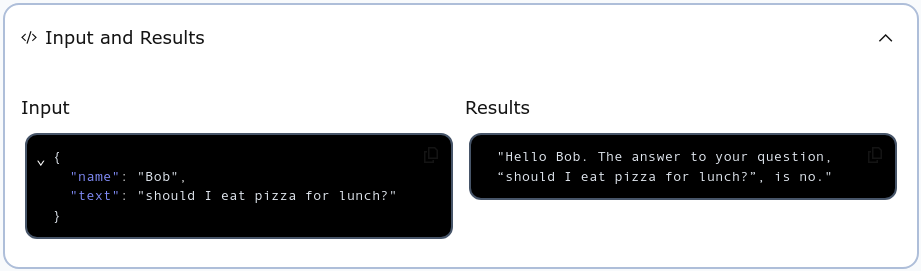
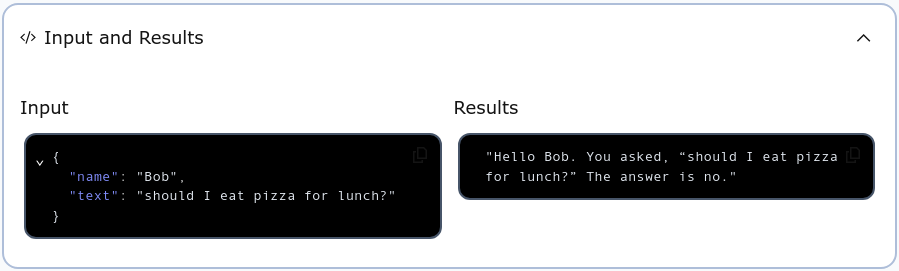
More revisions, code examples use Scala 3.5.1, ran spellchecker

diff --git a/docs/src/main/mdoc/tutorial/activities.md b/docs/src/main/mdoc/tutorial/activities.md
@@ -1,14 +1,14 @@
 # ZIO-Temporal Activities
 
-In the `HelloWorld` example we built earlier, the Workflow that returns a greeting is purely functional, because it is deterministic and is free from side-effects.  The output is completely determined by the input: if the input is `"Alice"` then the output will be `"Hello Alice!"` every time, and executing it has no effect on the world outside of the Temporal system.
+In the `HelloWorld` example we built earlier, the Workflow that returns a greeting is purely functional because it is deterministic and is free from side-effects.  The output is completely determined by the input: if the input is `"Alice"` then the output will be `"Hello Alice!"` every time, and executing it has no effect on the world outside of the Temporal system.
 
-But most Workflows are non-deterministic.  If you are building a microservice that must communicate with other services and then behave depending on that communication, then a Workflow that includes such communication and behavior will be non-deterministic.  Such a Workflow is functional in the sense that it has input and output values, but it also has the side-effect of communicating with the outside world, thus it is _impure_.  That communication is not only determining the output value of the Workflow, but it’s also affecting the outside-world in ways that may be unknowable simply by looking at the Workflow code.
+But most Workflows are non-deterministic.  If you are building a microservice that must communicate with other services and then behave depending on that communication, then a Workflow that includes such communication and behavior will be non-deterministic.  Such a Workflow is functional in the sense that it has input and output values, but it also has the side-effect of communicating with the outside world, thus it is _impure_.  That communication is not only determining the output value of the Workflow, but it is also affecting the outside-world in ways that may be unknowable simply by looking at the Workflow code.
 
-Because Tasks that have side-effects are different from purely determistic Workflow Tasks, ZIO-Temporal provides a different mechanism for accomplishing them: [Activities](https://docs.temporal.io/activities).  Activity Tasks are declared, implemented, and used in a manner somewhat similar to Workflow Tasks, but we keep them separate and use them a bit differently.  We will see this now in a small example.
+Because Tasks that have side-effects are different from purely deterministic Workflow Tasks, ZIO-Temporal provides a different mechanism for accomplishing them: [Activities](https://docs.temporal.io/activities).  Activity Tasks are declared, implemented, and used in a manner somewhat similar to Workflow Tasks, but we keep them separate and use them a bit differently.  We will see this now in a small example.
 
 ## When to Use An Activity
 
-An application that can communicate with other services can provide more features to its users by accessing the APIs of those other services to add value to the program.  As a very simple project, we will now create a service to provide life guidance to users by answering their yes-or-no questions.
+An application that can communicate with other services can provide more features to its users by accessing the APIs of those other services to add value to the program.  As a very simple project, we will now create an application to provide life guidance to users by answering their yes-or-no questions.
 
 We could do this with a random number generator that serves as a digital coin flip, but we want to provide high-quality answers.  We will therefore use the API of a service that provides answers in the form of a "yes" or a "no", called [YesNo.wtf](https://yesno.wtf) (online as of September 2024).  You can view responses in your web browser, but it also has an API for programmatic access.
 
@@ -19,7 +19,7 @@ $ curl https://yesno.wtf/api
 {"answer":"yes","forced":false,"image":"https://yesno.wtf/assets/yes/13-c3082a998e7758be8e582276f35d1336.gif"}
 ```
 
-More prettily formatted, the value returned here was:
+More prettily formatted, the value returned was:
 
 ```json
 {
@@ -29,7 +29,7 @@ More prettily formatted, the value returned here was:
 }
 ```
 
-That is the output we saw from just one run.  If you run it yourself then you will probably get a different result, and run again another result still because it is non-deterministic.  The result is a JSON object that always has the same form but an unpredictable value.  It has three properties, but the only one we need is the first, named `"answer"`, whose value always either `"yes"` or `"no"`.
+That is the output we saw when we ran it.  If you run it yourself then you will probably get a different result, and run again another result still because it is non-deterministic.  The result is a JSON object that always has the same form but an unpredictable value.  It has three properties but we only need the first, named `"answer"`, whose value is always either `"yes"` or `"no"`.
 
 We can create a Temporal Activity to do programmatically the same thing as this `curl` command.  Further, we can use the ZIO-JSON facility to extract the `"answer"` value out of the JSON contained in the response body.
 
@@ -44,7 +44,7 @@ scala> scala.io.Source.fromURL("https://yesno.wtf/api").mkString
 val res0: String = {"answer":"no","forced":false,"image":"https://yesno.wtf/assets/no/23-5fe6c1ca6c78e7bf9a7cf43e406fb8db.gif"}
 ```
 
-This returned a `String` that looks like the ouput from the `curl` command above.  To convert this `String` into a more useful Scala type, we can define such a type, and then generate a decoder for it using ZIO-JSON.  The type definition corresponds to the structure of the JSON object returned from an API request:
+This returned a `String` that looks like the output from the `curl` command above.  To convert this `String` into a more useful Scala type, we can define such a type, and then generate a decoder for it using ZIO-JSON.  The type definition corresponds to the structure of the JSON object returned from an API request:
 
 ```scala title="Scala REPL:"
 scala> case class YesOrNo(answer: String, forced: Boolean, image: String)
@@ -65,14 +65,14 @@ lazy val given_JsonDecoder_YesOrNo: zio.json.JsonDecoder[YesOrNo]
 
 The `given` keyword here is defining a value, but rather than binding the value to a variable name that we provide, Scala puts the value into the current context so that it is accessible implicitly without being named.  ZIO-JSON provides the method [`fromJson[]`](https://javadoc.io/static/dev.zio/zio-json_3/0.7.3/zio/json/DecoderOps.html#fromJson-f74), which will look in the context to find a decoder for the type of its parameter when invoked.  If it finds that decoder and can decode the `String` to which it is applied, then it will return the decoded instance of its type parameter.  If it fails then it will return a `String` containing an error message.  Thus, `fromJson[YesOrNo]` will return either a `String` (indicating an error) or a `YesOrNo` (upon success).
 
-`fromJson[]` is a method  of the [`DecoderOps`](https://javadoc.io/doc/dev.zio/zio-json_3/latest/zio/json/DecoderOps.html#fromJson-f74) class, and the Scala compiler will implicitly convert a `String` value to a `DecoderOps` in a context where the decoder is available.  Therefore, where the context contains the decoder, `fromJson[]` can be invoked on a `String` value as if it were a method in the `String` class.  For example, we can invoke `fromJson[]` on the string that the `curl` command displayed earlier:
+`fromJson[]` is a method  of the [`DecoderOps`](https://javadoc.io/doc/dev.zio/zio-json_3/latest/zio/json/DecoderOps.html#fromJson-f74) class, and the Scala compiler will implicitly convert a `String` value to a `DecoderOps` in a context where the requested decoder is available.  Therefore, where the context contains the decoder, `fromJson[]` can be invoked on a `String` value as if it were a method in the `String` class.  For example, we can invoke `fromJson[]` on the string that the `curl` command displayed earlier:
 
 ```scala title="Scala REPL:"
 scala> """{"answer":"yes","forced":false,"image":"https://yesno.wtf/assets/yes/13-c3082a998e7758be8e582276f35d1336.gif"}""".fromJson[YesOrNo]
 val res1: Either[String, YesOrNo] = Right(YesOrNo(yes,false,https://yesno.wtf/assets/yes/13-c3082a998e7758be8e582276f35d1336.gif))
 ```
 
-See that the type returned by `fromJson[YesOrNo]` is `Either[String, YesOrNo]`, which indicates that whatever the value is, it is either a `String` or a `YesOrNo`, but nothing else.  Scala is an object oriented language, and `Either[A, B]` is the supertype of `Left[A, B]` and `Right[A, B]` and of nothing else.  If it is a `Left[A, B]` then it contains a value of type `A`.  If it is a `Right[A, B]` then it contains a `B`.
+See that the type returned by `fromJson[YesOrNo]` is [`Either[String, YesOrNo]`](https://www.scala-lang.org/api/current/scala/util/Either.html), which indicates that whatever the value is, it is either a `String` or a `YesOrNo`, but nothing else.  Scala is an object oriented language, and `Either[A, B]` is the supertype of `Left[A, B]` and `Right[A, B]` and of nothing else.  If it is a `Left[A, B]` then it contains a value of type `A`.  If it is a `Right[A, B]` then it contains a `B`.
 
 This expression shown here returned a value of type `Either[String, YesOrNo]`, so the value will be either a `Left[String, YesOrNo]` containing an error-message string, or a `Right[String, YesOrNo]` containing the `YesOrNo` that was decoded as JSON.  This application of `fromJson[]` was to a `String` literal value, but we can also apply it to the `String` value returned from an API request:
 
@@ -81,7 +81,7 @@ scala> scala.io.Source.fromURL("https://yesno.wtf/api").mkString.fromJson[YesOrN
 val res2: Either[String, YesOrNo] = Right(YesOrNo(no,false,https://yesno.wtf/assets/no/14-cb78bf7104f848794808d61b9cd83eba.gif))
 ```
 
-We want to act according to whether the decoding is successful or not, defining a sensible action in case of failure.  A Scala [`match`](https://docs.scala-lang.org/scala3/book/control-structures.html#match-expressions) expression can destructure a `Left` or `Right`, and extract the contents to be returned:
+We want to act according to whether the decoding is successful or not, defining a sensible action in case of failure.  A Scala [`match`](https://docs.scala-lang.org/scala3/book/control-structures.html#match-expressions) expression can destructure a `Left` or a `Right`, and extract the contents to be returned:
 
 ```scala
 scala.io.Source.fromURL("https://yesno.wtf/api").mkString.fromJson[YesOrNo] match
@@ -89,15 +89,15 @@ scala.io.Source.fromURL("https://yesno.wtf/api").mkString.fromJson[YesOrNo] matc
       case Right(YesOrNo(answer, _, _)) => answer
 ```
 
-The expression to the left of the `match` keyword is evaluated, and that value is compared to the following [patterns](https://docs.scala-lang.org/tour/pattern-matching.html) until a match is found.  When one pattern matches, the code to the right of the `=>` is evaluated and the result returned.  If you paste this expression into the REPL (after deriving the JSON decoder), then you should get a `String` value of `"yes"` or `"no"`, unwrapped from the `Either` returned by the decoder.
+The expression to the left of the `match` keyword is evaluated, and that value is compared to the following [patterns](https://docs.scala-lang.org/tour/pattern-matching.html) until a match is found.  When one pattern matches, the code to the right of the `=>` is evaluated and the result returned.  If you paste this expression into the REPL (after deriving the JSON decoder), then you should get a `String` value of `"yes"` or `"no"`, unwrapped from the `Either` that was returned by the decoder.
 
-This example is making a network connection to the `yesno.wtf` public API, requesting an answer as a JSON-formatted string, attempting to decode that string into an instance of our custom `YesOrNo` type, matching on the value returned by `fromJson[]`, and then, if decoding was successful, returning the `answer` value of that instance.
+This example is making a network connection to the `yesno.wtf` public API, requesting an answer as a JSON-formatted string, attempting to decode that string into an instance of our custom `YesOrNo` type, matching on the value returned by `fromJson[]`, and then, if decoding was successful, returning the `answer` value member of that instance.
 
 That was the hard part.  Now we can turn this expression into a ZIO-Temporal application by dropping it into our existing program.  Because this code has the non-deterministic side-effect of communicating with the outside world, it must be defined as an Activity, which requires a trait and an implementing class.
 
 ## Declare an Activity
 
-We already learned how to define a Workflow, and defining an Activity is similar.  One difference is that while a Workflow trait declares only a single Workflow method, an Activity trait can declare as many methods as it needs.  These methods can only be executed as part of Workflows.  For example, we can define a Workflow named `AnswerQuestion` whose Workflow method will use an Activity named `GetAnswer`.  First we declare the traits and methods:
+We already learned how to define a Workflow, and defining an Activity is similar.  One difference is that while a Workflow trait declares only a single Workflow method, an Activity trait can declare as many Activity methods as it needs.  These Activity methods can only be executed as part of Workflows.  For example, we can define a Workflow named `AnswerQuestion` whose Workflow method will use an Activity named `GetAnswer`.  First we declare the traits and methods:
 
 ```scala
 @workflowInterface trait AnswerQuestion:
@@ -107,13 +107,13 @@ We already learned how to define a Workflow, and defining an Activity is similar
   def getAnswer(): String
 ```
 
-The Workflow interface and the Workflow method are annotated as we have seen before.  The Activity trait is annotated with `@activityInterface`.  Although the parentheses after `getAnswer()` are not strictly necessary because the method has no value parameters, we include them here to emphasise to human readers that this is a method with side-effects.
+The Workflow trait and the Workflow method are annotated as we have seen before.  The Activity trait is annotated with `@activityInterface`.  Although the parentheses after `getAnswer()` are not strictly necessary because the method has no value parameters, we include them here to emphasize to human readers that this is a method with side-effects.
 
-The type of a Workflow is the name of its trait type.  This is possible because a Workflow has only one Workflow method, which is the method that starts the Workflow when executed.  A Workflow can have multiple methods, but only one of them is the “Workflow method”.  If you know the Workflow type then you know the Workflow method.
+The type of a Workflow is the name of its trait type.  This is possible because a Workflow has only one Workflow method, which is the method that starts the Workflow Execution when invoked.  A Workflow can have multiple methods, but only one of them is the “Workflow method”.  If you know the Workflow type then you can determine the Workflow method.
 
-Activities are different because an Activity trait can declare multiple Activity methods.  Therefore the type of an Activity is the name of its method capitalized, not the name of the trait that declares that method.  In the example above, the type of the Workflow is `AnswerQuestion` and the type of the Activity is `GetAnswer`.  These names are used in diagnostic output and in the Temporal management web GUI.
+Activities are different because an Activity trait can declare multiple Activity methods, each representing a separate Activity.  Therefore the type of an Activity is the name of its method capitalized, rather than the name of the trait that declares that method.  In the example above, the type of the Workflow is `AnswerQuestion` and the type of the Activity is `GetAnswer`.  These names are used in diagnostic output and in the Temporal management web GUI.
 
-Our main program can execute a Workflow as we have already done, but cannot directly execute an Activity.  An Activity is executed from within a Workflow.  Here is an implementation of the `AnswerQuestion` trait declared above, showing how the Workflow method can execute the Activity method:
+Our main program can execute a Workflow as we have already done, but it must not directly execute an Activity.  An Activity is executed from within a Workflow.  Here is an implementation of the `AnswerQuestion` Workflow trait declared above, showing how the Workflow method can execute the Activity method:
 
 ```scala
 class AnswerQuestionImpl extends AnswerQuestion:
@@ -125,7 +125,7 @@ class QuestionActivityImpl extends QuestionActivity:
   override def getAnswer() = ???    
 ```
 
-In the previous section we learned how to use a single custom Scala type as the input parameter to a Workflow, and here we are using one called `Question`.  If we define `Question` as follows, then we can use the `name` and `text` fields as input data for the Workflow.
+In the previous section we learned how to use a single custom Scala type as the input parameter to a Workflow, and here we are using one called `Question`.  If we define `Question` as follows, then we can use the `name` and `text` fields as input data for the Workflow, and include them in the Workflow return value.
 
 ```scala
 case class Question(name: String, text: String)
@@ -140,21 +140,21 @@ ZWorkflowStub.execute(helloWorld(name))
 The instruction to start the Activity here is similar, where we invoke:
 
 ```scala
-ZActivityStub.execute(activity.getAnswer())
+ZActivityStub.execute(activities.getAnswer())
 ```
 
-Here, `activity` is an instance of the Activity trait `QuestionActivity` but it is *not* an instance of our implementation of that trait `QuestionActivityImpl`.  Rather it is an instance of a dynamically-generated proxy class created by the Java Reflection API.  That proxy class implements our trait `QuestionActivity`.
+Here, `activities` is an instance of the Activity trait `QuestionActivity` but it is *not* an instance of our implementation of that trait `QuestionActivityImpl`.  Rather it is an instance of a dynamically-generated proxy class created by the Java Reflection API.  That proxy class implements our trait `QuestionActivity`.
 
-Similar to the way we obtained a proxy stub for the Workflow object, `activity` here is also a proxy stub.  Invoking the `getAnswer()` method on it will start the Temporal process of enqueing a command to start the Activity on the Temporal Server where a Worker will dequeue it and start working on it.  When the Activity completes, the Worker sends the return value back to the Temporal Server, and the Server returns that value to our method invocation as if it had been invoked on an instance of `QuestionActivityImpl`.  The Server also persists this value, so if this Workflow needs to be replayed then the saved value will be used instead of making another network request.  This could happen, for example, if the machine running the Workflow crashes before receiving the result of the Activity.
+Similar to when we obtained a proxy stub for the Workflow object, `activities` here is also a proxy stub.  Invoking the `getAnswer()` method on `activities` will start the Temporal process by adding to the Temporal Server Task Queue a command to start the `GetAnswer` Activity.  A Worker will dequeue that command and start working on it.  When the Activity completes, the Worker sends the return value back to the Temporal Server, and the Server returns that value to our method invocation as if it had been invoked on an instance of `QuestionActivityImpl`.  The Server also persists this value, so if this Workflow needs to be replayed then the saved value will be used instead of making another network request.  This could happen, for example, if the machine running the Workflow crashes before receiving the result of the Activity.
 
 In an earlier section we saw how to obtain the Workflow proxy stub using `ZWorkflowClient.newWorkflowStub[]()`, specifying the Workflow type and options.  Here, we obtain the Activity proxy stub using [`ZWorkflow.newActivityStub[]()`](https://zio-temporal.vhonta.dev/api/zio/temporal/workflow/ZWorkflow$.html#newActivityStub[A](options:zio.temporal.activity.ZActivityOptions)(implicitevidence$3:scala.reflect.ClassTag[A],implicitevidence$4:zio.temporal.activity.IsActivity[A]):zio.temporal.activity.ZActivityStub.Of[A]).
 
 ```scala
-val activity = ZWorkflow.newActivityStub[QuestionActivity]:
+val activities = ZWorkflow.newActivityStub[QuestionActivity]:
   ZActivityOptions.withStartToCloseTimeout(60.seconds)
 ```
 
-In order to aquire an Activity proxy stub, you must configure a timeout value, here set to a maximum of sixty seconds for a single attempt of the Activity.  If there are multiple retries, then the total time for the Activity to complete may exceed this single-attempt maximum.
+In order to acquire an Activity proxy stub, you must configure a timeout value, here set to a maximum of sixty seconds for a single attempt of the Activity.  If there are multiple retries, then the total time for the Activity to complete may exceed this single-attempt maximum.
 
 ## Register an Activity
 
@@ -166,7 +166,7 @@ When registering a Workflow, the `addWorkflow[]` method takes a type parameter: 
 ZWorker.addActivityImplementation(new QuestionActivityImpl)
 ```
 
-The same as for `addWorkflow[]`, the `addActivityImplementation()` method returns an [aspect](https://stackoverflow.com/questions/242177/what-is-aspect-oriented-programming) that can be applied to a `ZIO` effect.  As we saw before, we apply an aspect to a `ZIO` using the apply-aspect operator `@@`.  This operator returns a `ZIO` and so can be chained with the other aspect like this:
+Same as for `addWorkflow[]`, the `addActivityImplementation()` method returns an [aspect](https://stackoverflow.com/questions/242177/what-is-aspect-oriented-programming) that can be applied to a `ZIO` effect.  As we saw before, we apply an aspect to a `ZIO` using the apply-aspect operator `@@`.  This operator returns a `ZIO` and so can be chained with the other aspect like this:
 
 ```scala
 ZWorkerFactory.newWorker("question-queue")
@@ -184,9 +184,9 @@ We have declared the `QuestionActivity` trait and its `getAnswer()` method.  Now
 class QuestionActivityImpl extends QuestionActivity:
   override def getAnswer() =
     Source.fromURL("https://yesno.wtf/api").mkString.fromJson[YesOrNo] match
-      case Right(YesOrNo(answer, _, _)) => answer
       case Left(_)                      => "unavailable"
-```
+      case Right(YesOrNo(answer, _, _)) => answer
+ ```
 
 When we were working in the REPL before we used the `given` keyword to create a context variable containing the JSON decoder necessary to deserialize the response from the remote service.  In order to make that decoder available to our program, the definition must be given somewhere that the compiler will know to look.  Since the type that the JSON will be decoded into is `YesOrNo`, we can put the decoder definition in the `YesOrNo` companion object:
 
@@ -199,7 +199,7 @@ object YesOrNo:
 This is everything needed for our working ZIO-Temporal program to answer important yes-or-no questions.  Provision of the dependency-injection we have seen before, and the only change to the library dependencies and imports to to make the ZIO-JSON functionality available.
 
 ```scala title="build.sbt"
-scalaVersion := "3.5.0"
+scalaVersion := "3.5.1"
 
 libraryDependencies ++= Seq(
   "dev.vhonta" %% "zio-temporal-core" % "0.6.1",
@@ -223,11 +223,11 @@ import scala.io.Source
 
 class AnswerQuestionImpl extends AnswerQuestion:
 
-  val activity = ZWorkflow.newActivityStub[QuestionActivity]:
+  val activities = ZWorkflow.newActivityStub[QuestionActivity]:
       ZActivityOptions.withStartToCloseTimeout(60.seconds)
 
   override def apply(question: Question) =
-    val answer = ZActivityStub.execute(activity.getAnswer())
+    val answer = ZActivityStub.execute(activities.getAnswer())
     s"Hello ${question.name}. You asked, “${question.text}” The answer is $answer."
 
 @activityInterface trait QuestionActivity:
@@ -236,8 +236,8 @@ class AnswerQuestionImpl extends AnswerQuestion:
 class QuestionActivityImpl extends QuestionActivity:
   override def getAnswer() =
     Source.fromURL("https://yesno.wtf/api").mkString.fromJson[YesOrNo] match
-      case Right(YesOrNo(answer, _, _)) => answer
       case Left(_)                      => "unavailable"
+      case Right(YesOrNo(answer, _, _)) => answer
 ```
 
 ```scala title="src/main/scala/Main.scala"
@@ -286,7 +286,7 @@ Now we can see the Activity in action.  As you have done before, make sure the T
 }
 ```
 
-After starting the Workflow Execution and opening its page you can examine the “Input and Results” section to see your question and its correct answer.
+After starting the Workflow Execution and opening its page you can examine the “Input and Results” section to see your question and its hopefully correct answer.
 
 ![_Input and Results_](img/input-and-results-activity.png)
 

diff --git a/docs/src/main/mdoc/tutorial/tutorial-intro.md b/docs/src/main/mdoc/tutorial/tutorial-intro.md
@@ -31,7 +31,7 @@ Scala is [object oriented](https://docs.scala-lang.org/tour/tour-of-scala.html#s
 
 Scala is [functional](https://docs.scala-lang.org/tour/tour-of-scala.html#scala-is-functional), and functions are objects that [can be passed as arguments and returned as values](https://docs.scala-lang.org/tour/higher-order-functions.html).  Functions and methods, including class constructors, can have both value parameters and type parameters.  Scala’s [pattern matching](https://docs.scala-lang.org/tour/pattern-matching.html#inner-main) is influenced by [ML](https://en.wikipedia.org/wiki/ML_(programming_language)), including [destructuring](https://docs.scala-lang.org/tour/extractor-objects.html#inner-main).
 
-[Scala is statically typed](https://docs.scala-lang.org/tour/tour-of-scala.html#scala-is-statically-typed) and every value has a type.  Thanks to [type inference](https://docs.scala-lang.org/tour/type-inference.html#inner-main) most type annotations are omitted from the examples in this tutoral, but you may find it helpful to use them in your own code.  A [type annotation is written](https://docs.scala-lang.org/style/types.html#annotations) following the expression or assignment-target to which it applies, separated by a colon character (`:`).  Scala has different [kinds](https://en.wikipedia.org/wiki/Kind_(type_theory)) of types, including [higher kinds](https://docs.scala-lang.org/style/naming-conventions.html#higher-kinds-and-parameterized-type-parameters) with generic type parameters.  Scala has [intersection types](https://docs.scala-lang.org/scala3/book/types-intersection.html), which represent values of more than one type, written using the `&` operator, for example `String & Int`.  Scala supports [algebraic data types](https://stackoverflow.com/questions/44991429/what-is-an-algebraic-data-type-adt#answer-52661350).  A [`case class`](https://docs.scala-lang.org/tour/case-classes.html) is a [product type](https://en.wikipedia.org/wiki/Product_type), and [`Either[A,B]`](https://www.scala-lang.org/api/current/scala/util/Either.html) is a [sum type](https://en.wikipedia.org/wiki/Tagged_union).  `Unit`(https://www.scala-lang.org/api/current/scala/Unit.html) is a type of which there is only one value, which is written `()`.  Returning the `Unit` value from a function is useful for indicating that the function returned while providing no further information.
+[Scala is statically typed](https://docs.scala-lang.org/tour/tour-of-scala.html#scala-is-statically-typed) and every value has a type.  Thanks to [type inference](https://docs.scala-lang.org/tour/type-inference.html#inner-main) most type annotations are omitted from the examples in this tutorial, but you may find it helpful to use them in your own code.  A [type annotation is written](https://docs.scala-lang.org/style/types.html#annotations) following the expression or assignment-target to which it applies, separated by a colon character (`:`).  Scala has different [kinds](https://en.wikipedia.org/wiki/Kind_(type_theory)) of types, including [higher kinds](https://docs.scala-lang.org/style/naming-conventions.html#higher-kinds-and-parameterized-type-parameters) with generic type parameters.  Scala has [intersection types](https://docs.scala-lang.org/scala3/book/types-intersection.html), which represent values of more than one type, written using the `&` operator, for example `String & Int`.  Scala supports [algebraic data types](https://stackoverflow.com/questions/44991429/what-is-an-algebraic-data-type-adt#answer-52661350).  A [`case class`](https://docs.scala-lang.org/tour/case-classes.html) is a [product type](https://en.wikipedia.org/wiki/Product_type), and [`Either[A,B]`](https://www.scala-lang.org/api/current/scala/util/Either.html) is a [sum type](https://en.wikipedia.org/wiki/Tagged_union).  `Unit`(https://www.scala-lang.org/api/current/scala/Unit.html) is a type of which there is only one value, which is written `()`.  Returning the `Unit` value from a function is useful for indicating that the function returned while providing no further information.
 
 Scala functions can accept arguments passed by value or by name.  By-value arguments are evaluated at the call site and the function receives the value, which it can use repeatedly without re-evaluation.  [By-name arguments](https://docs.scala-lang.org/tour/by-name-parameters.html#inner-main) are not evaluated at the call site, rather they are evaluated when used by the function to which they are passed, and evaluated every time the function uses them.  The `given` keyword introduces a parameter [into a context](https://docs.scala-lang.org/tour/implicit-parameters.html) where it can be accessed implicitly.  Scala’s control flow constructs are expressions with return values, including [`if`](https://docs.scala-lang.org/scala3/book/control-structures.html#the-ifthenelse-construct), [`for`](https://docs.scala-lang.org/scala3/book/control-structures.html#for-expressions) and [`match`](https://docs.scala-lang.org/scala3/book/control-structures.html#match-expressions).
 
@@ -58,7 +58,7 @@ JSON `String` values may contain many quotation-mark characters.  The need to es
 This tutorial uses the [Scala build tool](https://www.scala-sbt.org/1.x/docs/) (SBT) to manage library dependencies.  There are three library dependencies needed for any of the code examples in this tutorial: [ZIO-Temporal](https://github.com/vitaliihonta/zio-temporal), [ZIO-JSON](https://github.com/zio/zio-json), and a logging library.  The following build file, named `build.sbt`, is enough for all the examples in the tutorial:
 
 ```scala title="build.sbt"
-scalaVersion := "3.5.0"
+scalaVersion := "3.5.1"
 
 libraryDependencies ++= Seq(
   "dev.vhonta" %% "zio-temporal-core" % "0.6.1",

diff --git a/docs/src/main/mdoc/tutorial/worker-creation.md b/docs/src/main/mdoc/tutorial/worker-creation.md
@@ -53,7 +53,7 @@ A Temporal Worker must be configured to know which Workflows it supports, becaus
 
 Recall that a Temporal Workflow definition comprises (1) an annotated Scala trait that declares the Workflow methods, and (2) a class that implements those methods.  When you want to invoke methods of your Workflow, rather than constructing an instance of the Workflow class yourself, the Temporal library will do it for you and give you a proxy stub that implements the Workflow trait.  You can invoke methods on that stub and the Temporal infrastructure will forward the invocation to the Temporal server, to a Queue, from where a Worker will pick it up and then invoke the method on a real instance of your implementing class (which might be running on a different machine than the stub).
 
-All this happens behind the scenes so you need not worry about it; to you it’s as if you are working directly with an instance of the Workflow class.  But in order for all this to happen, the Worker must be configured with the type of that Workflow class.  The `addworkflow[]` method is the way to do this configuration.
+All this happens behind the scenes so you need not worry about it; to you it’s as if you are working directly with an instance of the Workflow class.  But in order for all this to happen, the Worker must be configured with the type of that Workflow class.  The `addWorkflow[]` method is the way to do this configuration.
 
 In the previous section we defined a Workflow comprising a trait named `HelloWorld` and an implementing class `HelloWorldImpl`:
 
@@ -213,7 +213,7 @@ so it needs a `ZWorkerFactory` and a `Scope` to run.  Conveniently, `ZIOAppDefau
 provideSome[Scope](???)
 ```
 
-where `???` will be all the dependencies that we do provide.  In fact you can leave the value parameter list empty and helpfully the Scala compiler will tell you which dependencies are missing.  This is valuable here, because although we know we must provide a `ZWorkerFactory`, it turns out that `ZWorkerFactor` has its own dependencies.  `ZWorkflowClient` and `ZWorkflowServiceStubs` are necessary for connecting to the Temporal server.
+where `???` will be all the dependencies that we do provide.  In fact you can leave the value parameter list empty and helpfully the Scala compiler will tell you which dependencies are missing.  This is valuable here, because although we know we must provide a `ZWorkerFactory`, it turns out that `ZWorkerFactory` has its own dependencies.  `ZWorkflowClient` and `ZWorkflowServiceStubs` are necessary for connecting to the Temporal server.
 
 In addition to these three types, each requires a configuration object, whose corresponding name is the same with `Options` appended.
 
@@ -310,7 +310,7 @@ There is not much terminal output, but you can confirm that the Worker has conne
 http://localhost:8233/namespaces/default/task-queues/my-task-queue
 ```
 
-where the final path segment is the name of the Task Queue that was passed as the argument to the `ZWorkerfactory.newWorker()` method in the Scala program.
+where the final path segment is the name of the Task Queue that was passed as the argument to the `ZWorkerFactory.newWorker()` method in the Scala program.
 
 Now that the Worker is running, try to start a Workflow using the Temporal web GUI.  Look for the [![_Start Workflow_](img/start-workflow-button.png)](http://localhost:8233/namespaces/default/workflows/start-workflow) button near the upper right of the GUI window.  Clicking it will bring you to a form into which you can enter the Workflow details.
 

diff --git a/docs/src/main/mdoc/tutorial/workflow-execution.md b/docs/src/main/mdoc/tutorial/workflow-execution.md
@@ -30,7 +30,7 @@ If you focus on what your program does in this diagram, it’s quite simple; onl
 
 Everything else in the diagram happens automatically, and this automatic process can do even more for you when there are problems that Temporal hides from you, for example automatically retrying tasks in the case of intermittent failures.
 
-So once you know how to take these two simple steps you will be able to write a program that starts a Workflow execution.  The first step is to aquire a stub instance of your Workflow trait.
+So once you know how to take these two simple steps you will be able to write a program that starts a Workflow execution.  The first step is to acquire a stub instance of your Workflow trait.
 
 ## Invoke the Workflow Method on the Stub, Not on the Implementation
 
@@ -160,9 +160,9 @@ It’s a good idea to use Workflow identifiers that distinguish Workflow Executi
 workflowID = s"hello-$time"
 ```
 
-will define a `String` variable whose value is an informative and unique indentifier for a Workflow Execution.
+will define a `String` variable whose value is an informative and unique identifier for a Workflow Execution.
 
-But where do we get the `time`?  We could use the Java standard library to get the current system time, but when programming with ZIO we have another option.  One problem with using a non-deterministic method that returns a different value with each invocation is that it makes testing more complicated, because the result of such a method might raise an error in one test run and then be unreproducable later.
+But where do we get the `time`?  We could use the Java standard library to get the current system time, but when programming with ZIO we have another option.  One problem with using a non-deterministic method that returns a different value with each invocation is that it makes testing more complicated, because the result of such a method might raise an error in one test run and then be unreproducible later.
 
 To avoid this situation, ZIO provides some services that can behave as expected when running in production, but that come with test implementations that can produce the same values every time they are invoked.  One such service is [`Clock`](https://javadoc.io/doc/dev.zio/zio_3/latest/zio/Clock$.html), which has a [`currentDateTime`](https://javadoc.io/static/dev.zio/zio_3/2.1.9/zio/Clock$.html#currentDateTime-63f) method that returns a
 
@@ -265,7 +265,7 @@ The type of the inner `for` expression is:
 ZIO[Any, TemporalException, String]
 ```
 
-By applying `serviceWithZio[]` to the `for` expression, we added the `ZWorkflowClient` dependency to the effect type, and now the ZIO infrastructre will ensure that this dependency is available to the program at compile time.
+By applying `serviceWithZIO[]` to the `for` expression, we added the `ZWorkflowClient` dependency to the effect type, and now the ZIO infrastructure will ensure that this dependency is available to the program at compile time.
 
 Next, consider that the input value to this workflow (`"Alice"`) is hard-coded in the `for` expression.  Let’s instead use a command-line argument to provide that value for the Workflow Execution.
 

diff --git a/docs/src/main/mdoc/tutorial/environment-setup.md b/docs/src/main/mdoc/tutorial/environment-setup.md
@@ -27,10 +27,10 @@ Confirm it’s online by pointing your browser to [your localhost port 8233](htt
 
 ZIO-Temporal applications depend on [the ZIO-Temporal library](https://zio.dev/ecosystem/community/zio-temporal/).  The Scala build tool [SBT](https://www.scala-sbt.org/) can manage library dependencies.  As mentioned earlier, the build file is named `build.sbt` and it goes in the root folder of the project.  The Scala source files go in the folder `src/main/scala` under the project root.
 
-Configuration for the build goes in the `build.sbt` file, and we already showed an example of configuring the Scala verson with a key-value pair:
+Configuration for the build goes in the `build.sbt` file, and we already showed an example of configuring the Scala version with a key-value pair:
 
 ```scala
-scalaVersion := "3.5.0"
+scalaVersion := "3.5.1"
 ```
 
 The `:=` operator above assigns the value on the right to the configuration setting named on the left.  Similarly, you can configure the project’s library dependencies using the `libraryDependencies` key.  The operator `+=` will add the value on the right to a collection named on the left.  To add multiple values (the library dependencies) you can use the `++=` operator applied to a collection of values on the right, in this case a [`Seq`](https://www.scala-lang.org/api/current/scala/collection/immutable/Seq$.html):
@@ -51,7 +51,7 @@ Now that you have your tutorial environment set up, our first topic will be how 
 This is a `build.sbt` file that will work for all the examples in this tutorial:
 
 ```scala title="build.sbt"
-scalaVersion := "3.5.0"
+scalaVersion := "3.5.1"
 
 libraryDependencies ++= Seq(
   "dev.vhonta" %% "zio-temporal-core" % "0.6.1",

diff --git a/docs/src/main/mdoc/tutorial/workflow-definition.md b/docs/src/main/mdoc/tutorial/workflow-definition.md
@@ -25,7 +25,7 @@ These annotations are provided by the [zio.temporal](https://zio-temporal.vhonta
 
 ## Workflows, Tasks, and Activities
 
-Conceptially, a Workflow is a sequence of steps to be performed until completion or failure.  These steps are called _Tasks_, and are of two sorts: [Workflow Tasks](https://docs.temporal.io/workers#workflow-task) and [Activity Tasks](https://docs.temporal.io/workers#activity-task).  By analogy, Workflow Tasks correspond to pure functions: they are deterministic and idempotent with no external side effects.  Activity Tasks correspond to impure functions because they can have side effects.
+Conceptually, a Workflow is a sequence of steps to be performed until completion or failure.  These steps are called _Tasks_, and are of two sorts: [Workflow Tasks](https://docs.temporal.io/workers#workflow-task) and [Activity Tasks](https://docs.temporal.io/workers#activity-task).  By analogy, Workflow Tasks correspond to pure functions: they are deterministic and idempotent with no external side effects.  Activity Tasks correspond to impure functions because they can have side effects.
 
 Temporal needs to distinguish these two types of tasks for the purpose of replaying a Workflow when necessary.  The results of Activities are persisted on the Temporal Server so that if the Worker crashes, for example, the result of any completed Activity is not lost and the Workflow can resume without repeating any side-effects that produced the value returned by the Activity Task.  On the other hand, Workflow Tasks are deterministic and therefore safe to repeat; thus their results are not persisted on the Temporal Server but rather re-calculated if a Workflow is replayed.
 

diff --git a/docs/src/main/mdoc/tutorial/json-io.md b/docs/src/main/mdoc/tutorial/json-io.md
@@ -32,7 +32,7 @@ and invoke the workflow like this:
 ZWorkflowStub.execute(helloWorld("Alice", "ice cream"))
 ```
 
-There are a number of problems with doing it this way.  For one thing, a Workflow with many parameters can have an unweildy method signature.  Another problem is that changing the parameters will change the signature which means that all invocations must also be changed.  Even more complicating is the fact that Workflows may be very long running—months or years—and the signature of the Workflow method may change while Workflows are running.
+There are a number of problems with doing it this way.  For one thing, a Workflow with many parameters can have an unwieldy method signature.  Another problem is that changing the parameters will change the signature which means that all invocations must also be changed.  Even more complicating is the fact that Workflows may be very long running—months or years—and the signature of the Workflow method may change while Workflows are running.
 
 A way to simplify the situation is to declare the Workflow method to have a single parameter of a custom type.  That type can be as complex as we need, and we can change its definition without changing the signature of the method that takes it.  For our simple two-`String` example, we can use a Scala [_product type_](https://en.wikipedia.org/wiki/Product_type), implemented as [`case class`](https://docs.scala-lang.org/tour/case-classes.html#inner-main).
 
